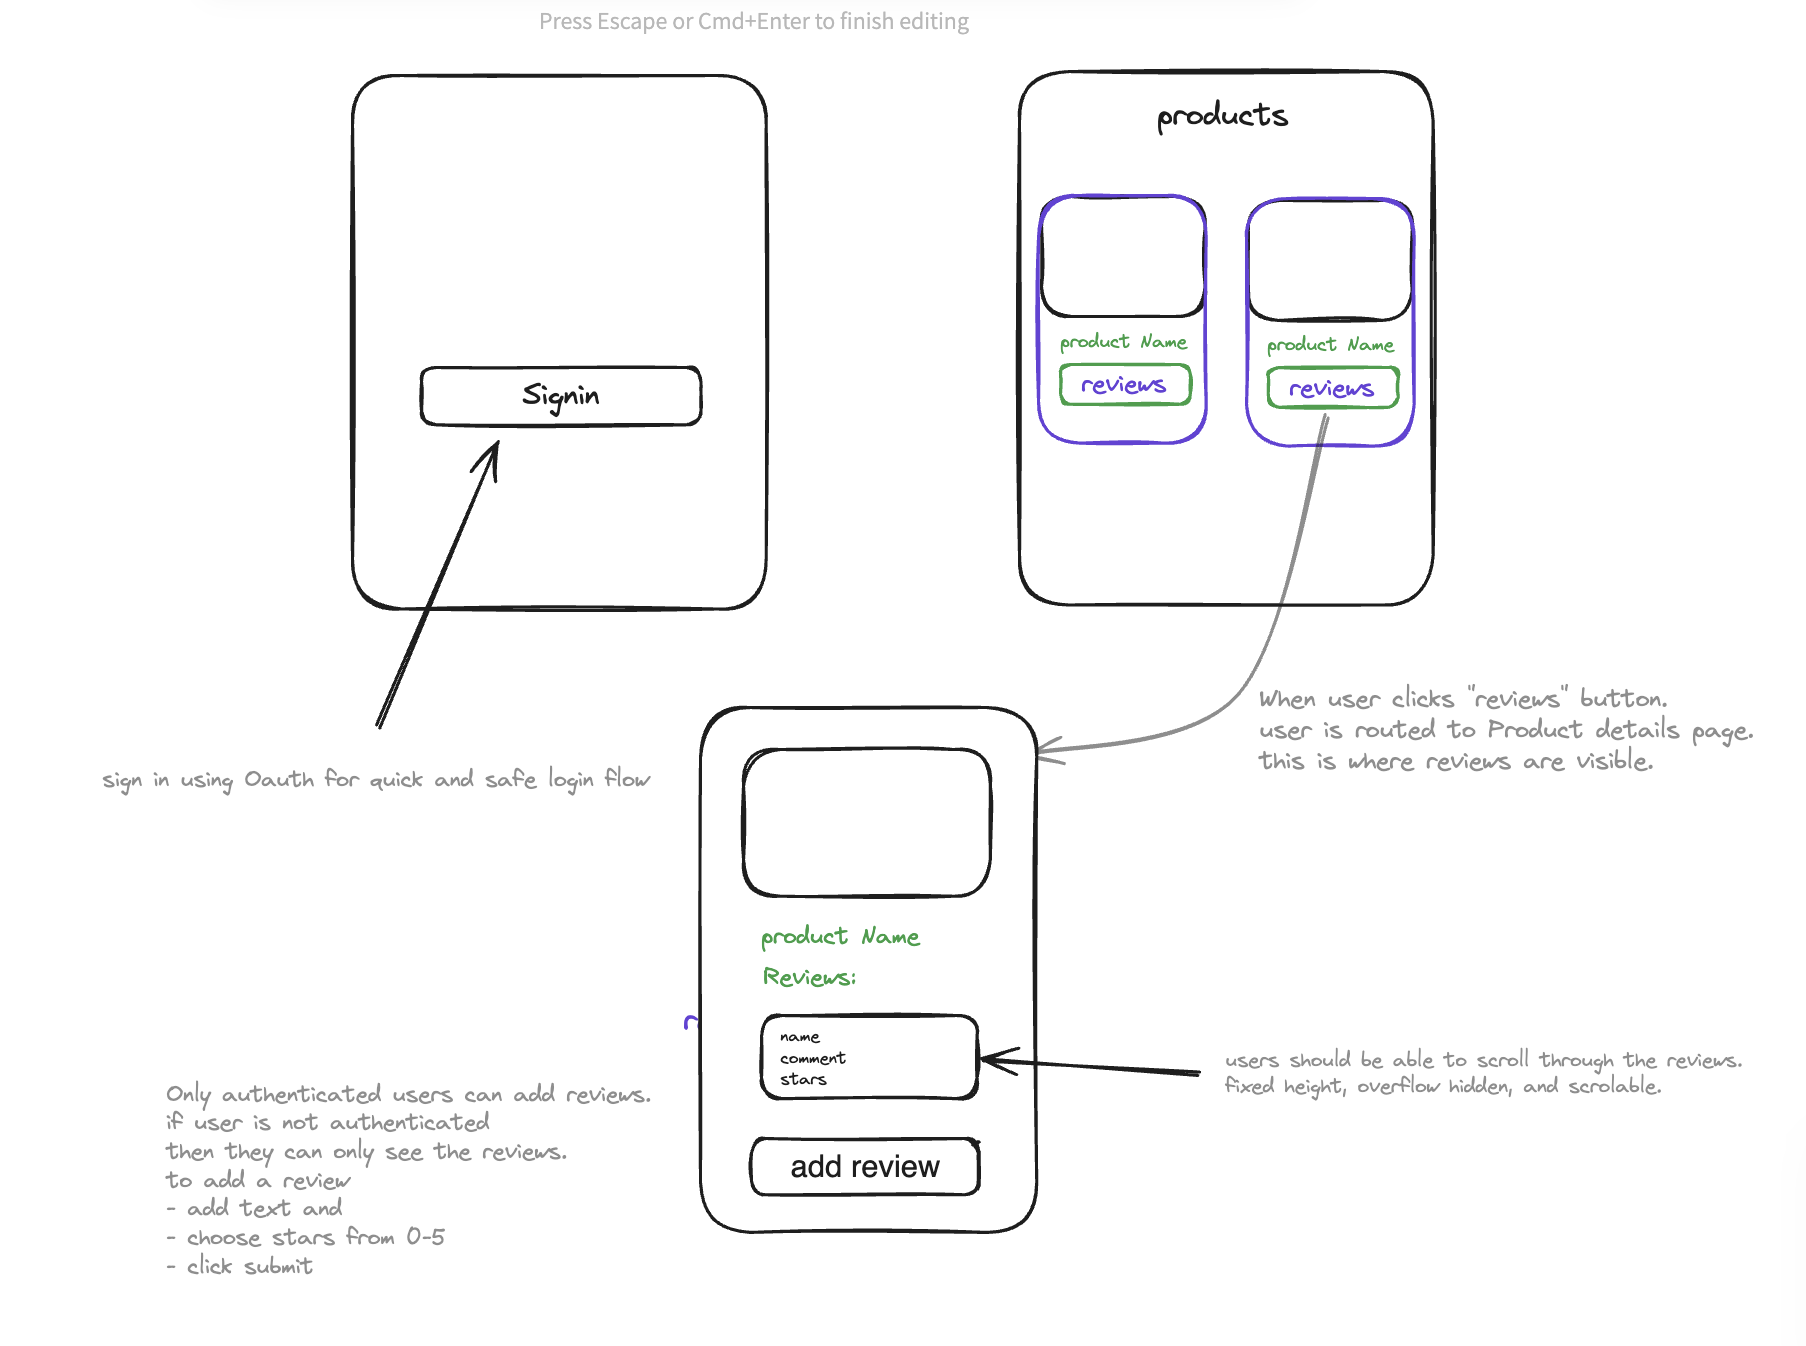
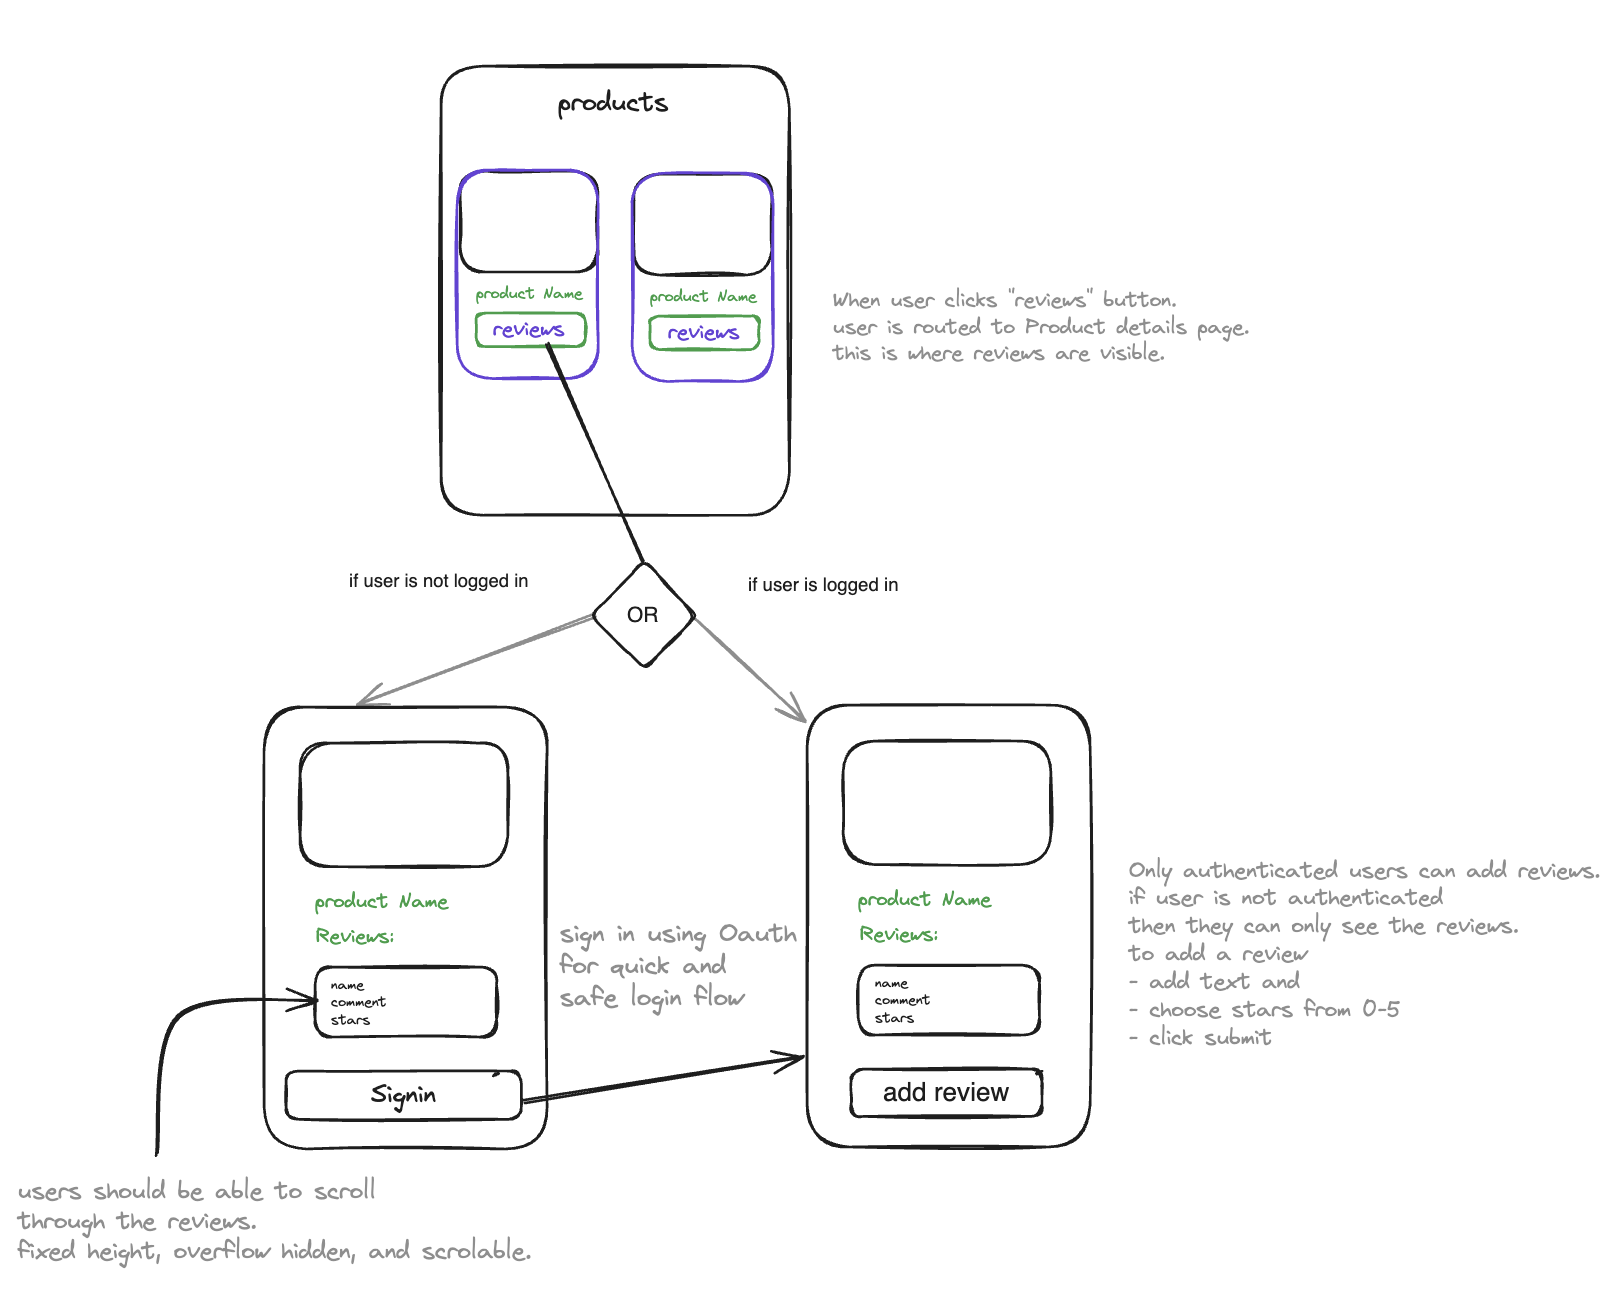
authentication setup started.

diff --git a/pages/_app.tsx b/pages/_app.tsx
@@ -3,6 +3,7 @@ import { AppProps } from 'next/app';
 import { Hydrate, QueryClientProvider } from 'react-query';
 import { createTheme, MantineProvider } from '@mantine/core';
 import { queryClient } from '../src/api';
+import { SessionProvider } from "next-auth/react"
 import '../styles/global.css';
 import '@mantine/core/styles.css';
 
@@ -11,12 +12,20 @@ const theme = createTheme({
     /** Put your mantine theme override here */
 });
 
-function MyApp({ Component, pageProps }: AppProps) {
+function MyApp({ 
+    Component, 
+    pageProps:{
+        session, 
+        ...pageProps
+    } 
+}: AppProps) {
     return (
         <QueryClientProvider client={queryClient} >
             <Hydrate state={pageProps.dehydratedState}>
                 <MantineProvider theme={theme}>
-                    <Component {...pageProps} />
+                    <SessionProvider session={session}>
+                        <Component {...pageProps} />
+                    </SessionProvider>
                 </MantineProvider>
             </Hydrate>
         </QueryClientProvider>   

diff --git a/pages/product/[id].tsx b/pages/product/[id].tsx
@@ -58,8 +58,8 @@ const ProductDetails: React.FunctionComponent<{
                 height={200}
                 alt="Ethereum"
             />
-            <p>Description: {product.description}</p>
-            <p>Price: ${product.price}</p>
+            <Text size="md">Description: {product.description}</Text>
+            <Text size="md">Price: ${product.price}</Text>
             <h3>Reviews:</h3>
             <ScrollArea h={160}>
                 <List spacing={20}>

diff --git a/pages/api/auth/[...nextauth]/options.ts b/pages/api/auth/[...nextauth]/options.ts
@@ -1,0 +1,7 @@
+// import NextAuth from "next-auth"
+
+// const handler = NextAuth({
+//   ...
+// })
+
+// export { handler as GET, handler as POST }

diff --git a/README.md b/README.md
@@ -55,7 +55,8 @@ To install and run the E-commerce Product Reviews App, follow these steps:
 
 ## Next Steps:
 Write Unit Tests to fetch all products, getProductById and addReviews to a product.
-Implement Authentication using github.
+Implement Authentication using github, follow these docs -> https://next-auth.js.org/configuration/initialization
+follow the wireframe for the authentication flow. page should not be protected or blocked for non- authenticated users orelse it would defeat the purpose of having a SSR application. instead a login button should be placed instead of add review button on the product details page. 
 
 ## License
 env.test.local
